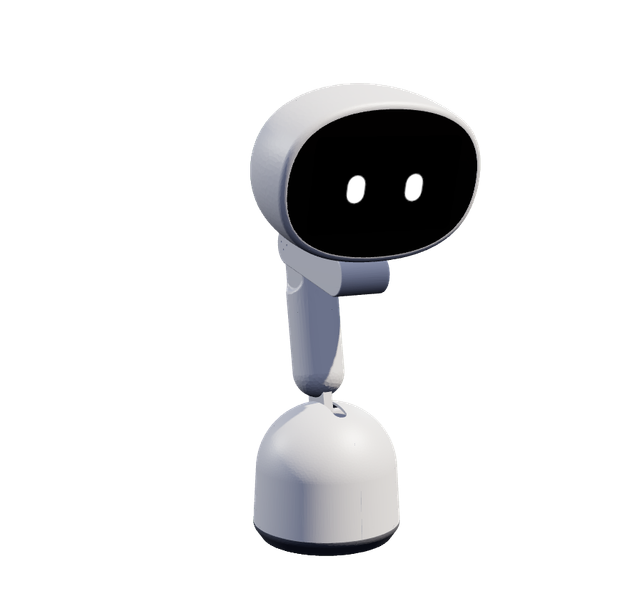
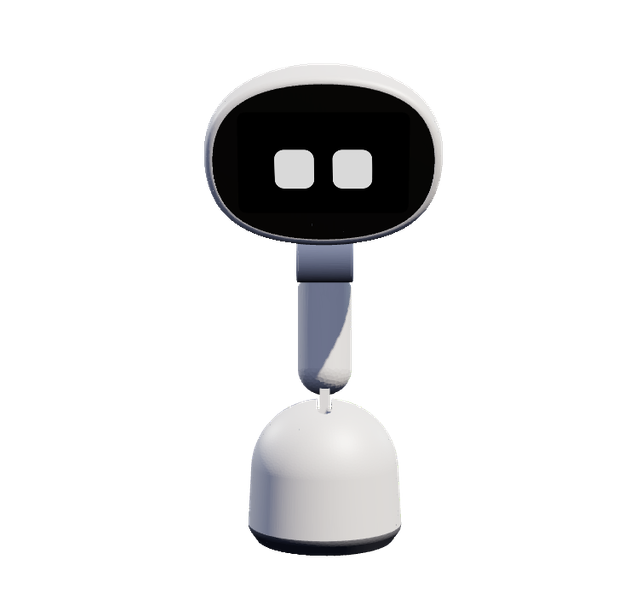
fix: 커뮤니티 렌더 썸네일을 정면·영상 얼굴로 재렌더, 화면 베젤 무광 처리

Changed region(s): [[0.2987, 0.0925, 0.7767, 0.8945]]

diff --git a/components/sim/viewer3d.ts b/components/sim/viewer3d.ts
@@ -276,12 +276,15 @@ export class LampViewer {
           : this.primitiveGeometry(g);
       if (!geometry) continue;
 
+      // 거의 검은 재질(화면 베젤)은 광택을 빼서 조명을 받아도 화면처럼 검게 남게 한다.
+      const color = this.geomColor(g);
+      const matte = color.getHSL({ h: 0, s: 0, l: 0 }).l < 0.1;
       const mesh = new THREE.Mesh(
         geometry,
         new THREE.MeshStandardMaterial({
-          color: this.geomColor(g),
-          roughness: 0.5,
-          metalness: 0.18,
+          color,
+          roughness: matte ? 0.85 : 0.5,
+          metalness: matte ? 0 : 0.18,
         }),
       );
       mesh.castShadow = true;

diff --git a/docs/decisions.md b/docs/decisions.md
@@ -54,3 +54,4 @@ STEP마다 한 줄. `날짜 · STEP · 결정 · 근거`
 | 2026-10-18 | 23 | 가이드라인 Approach 재작업(사람: 올바른 시안은 808:1254): 섹션 Robot·Intensity·Time Line·Variant+State·Token Spec, 오른쪽 검색+목차. doc 있는 가이드라인 페이지는 랩 사이드바 안에 가이드라인 트리(Figma 'User Data' 대신 Community 유지), 라우트 없는 트리 항목은 텍스트. 이전 550:2490 블록 종류 제거 | 사용자 피드백 |
 | 2026-10-18 | 23 | 가이드라인 패턴 Face to Face(Figma 886:1629): 같은 템플릿(table name/body 열, states plain, topToc), 사이드바 트리는 현재 그룹만 펼침. Pass Away→passing-by, By your side→side-by-side로 매핑(사용자 확인), Moving·Leave는 페이지 없음 | 사용자 요청 |
 | 2026-10-19 | 얼굴 | 얼굴을 직접 그리지 않고 영상만 사용(사용자 요청·sim 변경 승인). FaceCanvas 삭제, FaceSpec = { preset: 영상 이름 \| auto, keys: [{ t, preset }] }(토큰 제거), data/face-videos.ts(neutral·smile·heart·surprise·tilt·sad·sleepy + auto=faces.json 동작별). 우선순위 타임라인 키 > 레시피 step face > 표현 face. Face 패널은 영상 미리보기 + 영상 선택, LLM 스키마·프롬프트도 영상 이름, 시그니처 eyes 축 → 기본 영상(<34 sleepy, <67 neutral, 이상 smile). 옛 프리셋은 읽을 때 마이그레이션(soft·happy→smile, wide→surprise, blink→neutral, video→auto) | 얼굴 디자인 출처를 영상 하나로 |
+| 2026-10-19 | 커뮤니티 | 렌더 카드 10장(idle·doze·wake·nod·shake·curious·alert·sweep·focus·home) 재렌더: 정면 카메라(azimuth 90), 얼굴은 동작별 영상, 화면 베젤 등 거의 검은 재질은 무광(roughness 0.85·metalness 0)으로 바꿔 조명에 회갈색으로 뜨지 않게 | 이전 렌더는 캔버스 눈·사선 각도·베젤 반사로 Figma 그림과 따로 놀았음 |
